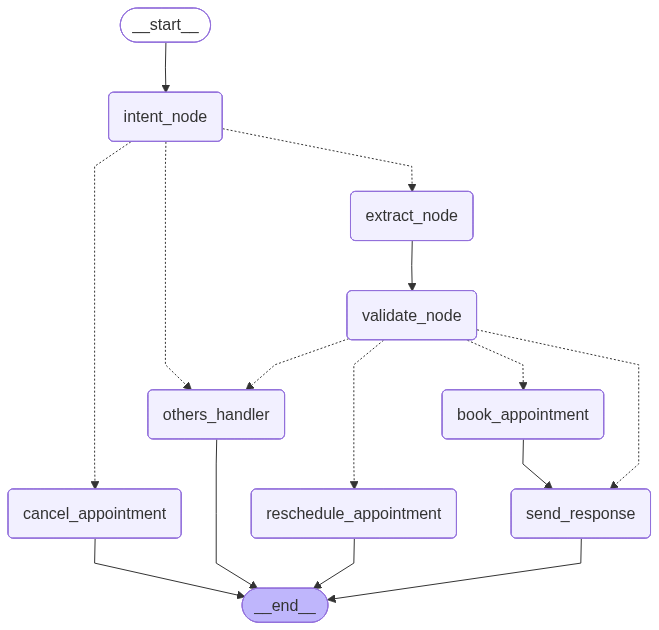
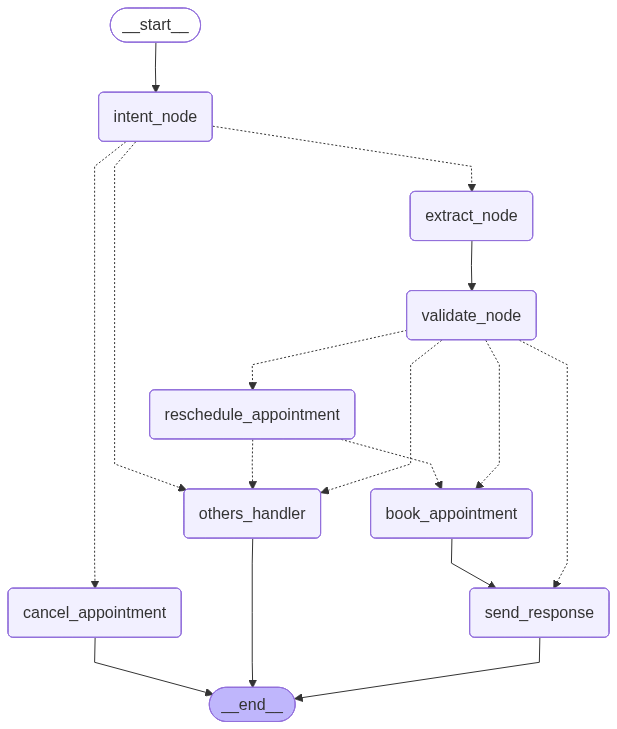
several mintor changes

diff --git a/app/static/index.html b/app/static/index.html
@@ -157,8 +157,9 @@ async function sendMessage() {
         }
 
         const sessionId = localStorage.getItem('chat_session_id');
-
-        const response = await fetch('https://clinic-scheduling-agent.onrender.com/api/v1/chat', {
+        const apiUrl = 'https://clinic-scheduling-agent.onrender.com/';
+        const localApiUrl = 'http://localhost:8000/';
+        const response = await fetch('http://127.0.0.1:8000/api/v1/chat', {
             method: 'POST',
             credentials: 'include',
             headers: { 'Content-Type': 'application/json' },

diff --git a/app/services/llm_service.py b/app/services/llm_service.py
@@ -259,3 +259,23 @@ Return ONLY the response message.
             config={"callbacks": [self.langfuse_handler]}
         )
         return res.content
+    
+
+    async def generate_missing_info_response(self, entities: dict) -> str:
+        missing_fields = [field for field, value in entities.items() if value is None]
+        if not missing_fields:
+            return ""
+        
+        field_names = {
+            "name": "الاسم",
+            "date": "التاريخ",
+            "time": "الوقت",
+            "service": "الخدمة"
+        }
+        missing_arabic = [field_names.get(field, field) for field in missing_fields]
+        if len(missing_arabic) == 1:
+            return f" من فضلك زودني ب{missing_arabic[0]}."
+        else:
+            all_but_last = ", ".join(missing_arabic[:-1])
+            last = missing_arabic[-1]
+            return f" من فضلك زودني ب{all_but_last} و {last}."

diff --git a/app/services/reservation_service.py b/app/services/reservation_service.py
@@ -20,7 +20,7 @@ class ReservationService:
 
     async def create_indexes(self):
         await self.collection.create_index(
-            [("session_id", 1), ("start_time", 1)], unique=True
+            [("start_time", 1)], unique=True
         )
 
     def _build_datetime(self, date: str, time: str) -> datetime:
@@ -91,13 +91,13 @@ class ReservationService:
         service = appointment_info.get("service")
 
         if not all([name, date, time]):
-            return {"status": "failed", "message": "هناك حقول مطلوبة مفقودة"}
+            return {"status": "failed", "message": "هناك حقول مطلوبة مفقودة", "type": "missing_info"}
 
         start_time = self._build_datetime(date, time)
 
         end_time = start_time + timedelta(minutes=30)
         if await self._is_past(start_time):
-            return {"status": "failed", "message": "لا يمكنك حجز موعد في الماضي."}
+            return {"status": "failed", "message": "لا يمكنك حجز موعد في الماضي.", "type": "past_date"}
         conflict_result = await self._has_conflict(start_time, end_time)
         if conflict_result["conflict"]:
             return conflict_result
@@ -105,6 +105,7 @@ class ReservationService:
             return {
                 "status": "failed",
                 "message": "يجب أن يكون الموعد ضمن ساعات العمل (9 صباحاً - 5 مساءً، من الأحد إلى الخميس)",
+                "type": "working_hours"
             }
 
         document = {
@@ -125,6 +126,7 @@ class ReservationService:
                     "start_time": start_time.strftime(
                         "%Y-%m-%d %H:%M"
                     )  # ✅ clean format
+                    , type: "success"
                 },
             }
 
@@ -132,6 +134,7 @@ class ReservationService:
             return {
                 "status": "failed",
                 "message": "لقد تم أخذ هذه الفترة الزمنية للتو. حاول في وقت آخر.",
+                "type": "exception"
             }
 
     async def get_reservation(self, session_id: str) -> AppoinementInfo | None:
@@ -209,7 +212,7 @@ class ReservationService:
         reservation = await self.collection.find_one({"session_id": self.session_id})
 
         if not reservation:
-            return {"status": "failed", "message": "لا يوجد حجز لإعادة جدولته."}
+            return {"status": "failed", "message": "لا يوجد حجز لإعادة جدولته.", "type": "no_reservation"}
         start_time = self._build_datetime(date, time)
 
         end_time = start_time + timedelta(minutes=30)
@@ -219,6 +222,7 @@ class ReservationService:
             return {
                 "status": "failed",
                 "message": "يجب أن يكون الموعد ضمن ساعات العمل (9 صباحاً - 5 مساءً، من الأحد إلى الخميس)",
+                "type": "outside_working_hours"
             }
 
 
@@ -231,7 +235,7 @@ class ReservationService:
         )
 
         if conflict:
-            return {"status": "failed", "message": "الموعد الجديد غير متاح."}
+            return {"status": "failed", "message": "الموعد الجديد غير متاح.", "type": "conflict"}
         await self.collection.update_one(
             {"_id": reservation["_id"]},
             {
@@ -248,4 +252,5 @@ class ReservationService:
             "message": (
                 f"تم إعادة جدولة الموعد إلى " f"{start_time.strftime('%Y-%m-%d %H:%M')}"
             ),
+            type: "success"
         }

diff --git a/app/services/persistent_short_memory.py b/app/services/persistent_short_memory.py
@@ -21,7 +21,17 @@ class ConversationMemoryService:
         if created_at.tzinfo is None:
             created_at = created_at.replace(tzinfo=TZ)
         return created_at.date() < datetime.now(TZ).date()
-
+    async def update_intent(self, session_id: str, intent: str):
+        await self.collection.update_one(
+            {"session_id": session_id},
+            {"$set": {"intent": intent, "updated_at": datetime.now(TZ)}},
+            upsert=True
+        )
+    async def get_intent(self, session_id: str) -> str:
+        memory = await self.collection.find_one({"session_id": session_id})
+        if not memory:
+            return None
+        return memory.get("intent")
     async def update_memory(self, session_id: str, entities):
         update_fields = {
             "updated_at": datetime.now(TZ)
@@ -58,6 +68,7 @@ class ConversationMemoryService:
             update_query,
             upsert=True
         )
+
 
     async def get_memory(self, session_id: str) -> dict:
         memory = await self.collection.find_one({"session_id": session_id})

diff --git a/app/services/scheduling_agent/graph.py b/app/services/scheduling_agent/graph.py
@@ -32,10 +32,17 @@ builder.add_conditional_edges(
         "others_handler": "others_handler",
     }
 )
-
+builder.add_conditional_edges(
+    "reschedule_appointment",
+    post_rescheduling_router,
+    {
+        "book_appointment": "book_appointment",
+        "others_handler": "others_handler",
+    }
+)
 builder.add_edge("book_appointment", "send_response")
 builder.add_edge("send_response", END)
 builder.add_edge("extract_node", "validate_node")
 builder.add_edge("cancel_appointment", END)
-builder.add_edge("reschedule_appointment", END)
+builder.add_edge("others_handler", END)
 agent = builder.compile()

diff --git a/app/services/scheduling_agent/nodes.py b/app/services/scheduling_agent/nodes.py
@@ -49,10 +49,11 @@ async def extract_node(state: AgentState):
         extract_object = await llm_service.extract_entities(last_message)
         
         data = extract_object["llm_response"]  # already a dict now
-        print(data)
-
+        if any(word in state.get("intent", "") for word in ["cancel", "reschedule", "book"]):
+            await state.get("conversation_memory").update_intent(state["session_id"], state["intent"])
+        if "others" in state.get("intent", "") :
+            state["intent"] = await state.get("conversation_memory").get_intent(state["session_id"])
         appointment = AppoinementInfo.model_validate(data)
-
         await state.get("conversation_memory").update_memory(state["session_id"], appointment)
         appointment = await state.get("conversation_memory").merge_entities_with_memory(state["session_id"], appointment)
         print("Merged appointment data with memory:", appointment)
@@ -142,6 +143,7 @@ async def book_appointment(state: AgentState):
         return {
         "send_entities" : True , 
         "status" : result["status"], 
+        "response": result["message"],
         "next_action" : result.get("type", None) 
         }
     except Exception as e:
@@ -238,7 +240,7 @@ async def reschedule_appointment(state: AgentState):
         result = await state.get("reservation").reschedule_reservation(state.get("entities"))
 
         # If there's no existing reservation, route to book_appointment
-        if result.get("status") == "failed" and ("لا يوجد" in result.get("message", "") or "لم يتم العثور" in result.get("message", "")):
+        if result.get("status") == "failed" and result.get("type") == "no_reservation":
             return {
                 "next_action": "book_appointment",
                 "response": "لم يتم العثور على حجز لإعادة جدولته. هل تود حجز موعد جديد؟",

diff --git a/app/main.py b/app/main.py
@@ -18,8 +18,8 @@ async def lifespan(app: FastAPI):
     ssl_context = ssl.create_default_context(cafile=certifi.where())
     ssl_context.check_hostname = False
     ssl_context.verify_mode = ssl.CERT_NONE
-    MONGO_URI = os.getenv("MONGODB_URI") or settings.MONGODB_URL
-    DATABASE_NAME = os.getenv("DATABASE_NAME") or settings.DATABASE_NAME
+    MONGO_URI =  settings.MONGODB_URI
+    DATABASE_NAME =  settings.DATABASE_NAME
 
     app.mongodb_client = AsyncIOMotorClient(
         MONGO_URI,

diff --git a/app/api/v1/chat.py b/app/api/v1/chat.py
@@ -19,7 +19,7 @@ router = APIRouter()
 
 
     
[email redacted]("/test_chat")
[email redacted]("/chat")
 async def chat_endpoint(request: Request, chat_request: ChatRequest):
     session_id = chat_request.session_id
 

diff --git a/app/core/config.py b/app/core/config.py
@@ -4,7 +4,7 @@ class Settings(BaseSettings):
     PROJECT_NAME: str = "Haven"
     Electricity_Off: bool = False
     OLLAMA_MODEL: str = "command-r7b-arabic:latest"
-    MONGODB_URL: str 
+    MONGODB_URI: str 
     DATABASE_NAME: str 
     GEMINI_MODEL_NAME: str = "gemini-2.5-flash-lite"
     MODEL_PROVIDER: str = "Fanar"  # or "Gemini"

diff --git a/app/services/agent_service.py b/app/services/agent_service.py
@@ -31,7 +31,7 @@ class SchedulingAgentService:
         # png_data = agent_graph_builder.get_graph().draw_mermaid_png()
 
         # with open("langgraph.png", "wb") as f:
-        # f.write(png_data)
+        #     f.write(png_data)
         if result.get("send_entities"):
             return {
                 "response": result.get("response", ""),